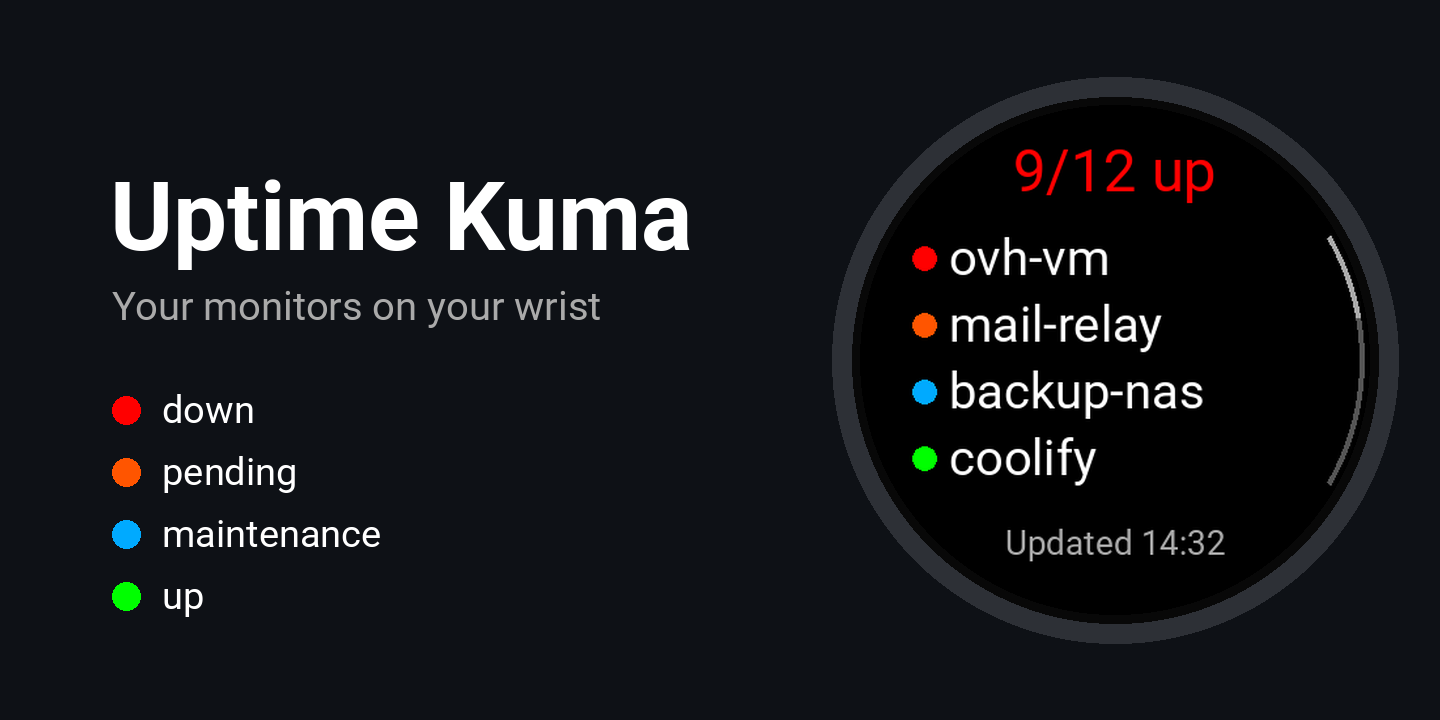
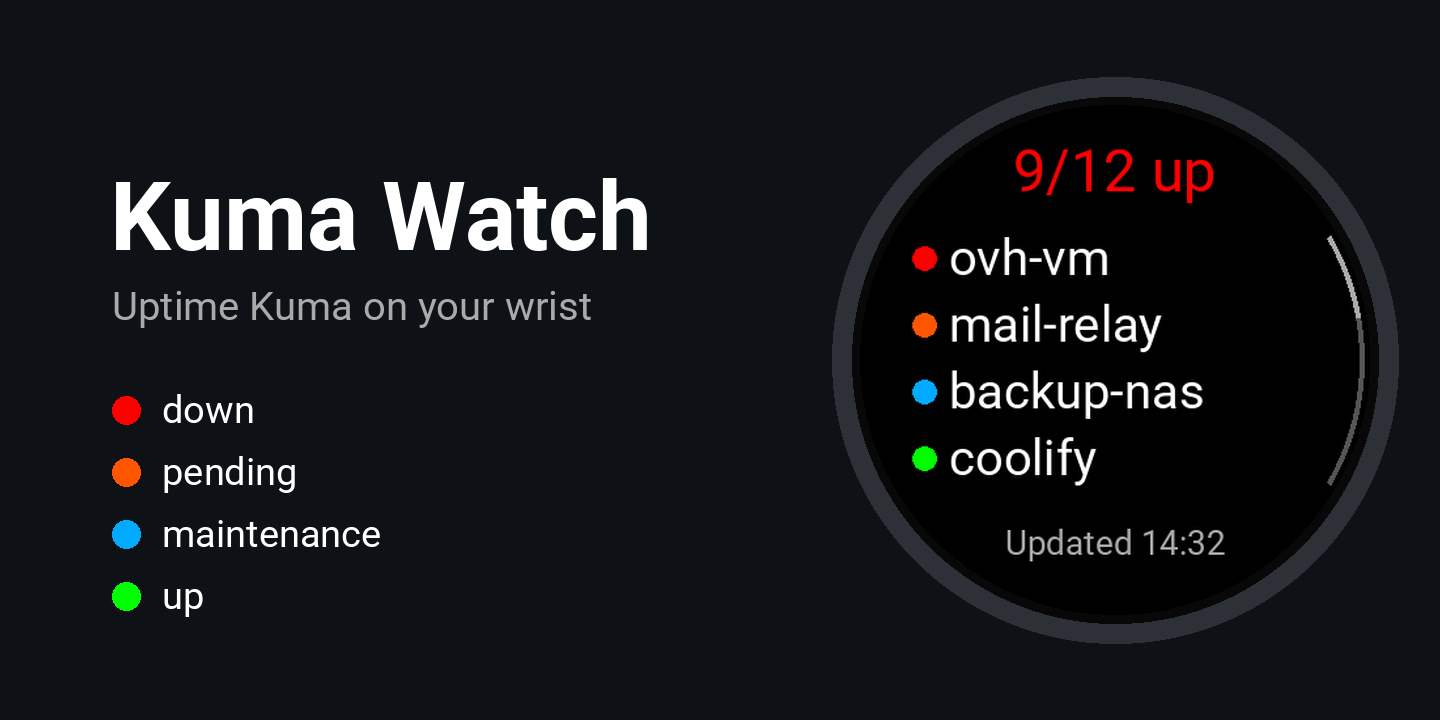
Rename the app to Kuma Watch and add the MIT license

Changed region(s): [[0.0625, 0.2444, 0.5, 0.3667], [0.0625, 0.3972, 0.4375, 0.4583]]

diff --git a/garmin/store/render.py b/garmin/store/render.py
@@ -12,9 +12,9 @@ OUT = sys.argv[1]
 
 TEXT = {
     "en": {"updated": "Updated", "all_up": "All up", "down": "down", "no_phone": "No phone\nconnection",
-           "retry": "Tap to retry", "tagline": "Your monitors on your wrist"},
+           "retry": "Tap to retry", "tagline": "Uptime Kuma on your wrist"},
     "fr": {"updated": "MAJ", "all_up": "Tout est up", "down": "down", "no_phone": "Pas de connexion\ntéléphone",
-           "retry": "Toucher pour réessayer", "tagline": "L'état de vos monitors au poignet"},
+           "retry": "Toucher pour réessayer", "tagline": "Uptime Kuma au poignet"},
 }
 W = H = 390
 REG = "/usr/share/fonts/TTF/Roboto-Regular.ttf"
@@ -164,7 +164,7 @@ def render(lang, out):
     cd.ellipse([wx - 8, wy - 8, wx + ws + 8, wy + ws + 8], fill=(8, 8, 8))
     watch = round_mask(shots["screenshot-1-list.png"].resize((ws, ws), Image.LANCZOS))
     cover.paste(watch, (wx, wy), watch)
-    cd.text((110, 250), "Uptime Kuma", font=ImageFont.truetype(BOLD, 96), fill=WHITE, anchor="ls")
+    cd.text((110, 250), "Kuma Watch", font=ImageFont.truetype(BOLD, 96), fill=WHITE, anchor="ls")
     cd.text((112, 320), t["tagline"], font=ImageFont.truetype(REG, 40), fill=LT, anchor="ls")
     for i, (label, color) in enumerate([("down", RED), ("pending", ORANGE), ("maintenance", BLUE), ("up", GREEN)]):
         y = 410 + i * 62

diff --git a/README.md b/README.md
@@ -1,6 +1,8 @@
-# Uptime Kuma for Garmin vivoactive 6
+# Kuma Watch: Uptime Kuma for Garmin vivoactive 6
 
-Check the up/down state of your Uptime Kuma monitors from your watch.
+Check the up/down state of your [Uptime Kuma](https://github.com/louislam/uptime-kuma) monitors from your watch.
+
+Unofficial project, not affiliated with Uptime Kuma. MIT licensed.
 
 ```
 proxy/    Python micro-service: Uptime Kuma /metrics → compact JSON
@@ -198,7 +200,7 @@ Keep this key safe: every update of an installed app must be signed with the sam
 ### Configuration
 
 The URL and token are **not** part of the build (`properties.xml` leaves them empty): after installing from
-the Connect IQ Store, set them in the **Connect IQ** app on the phone → *My Device* → *My Apps* → Uptime Kuma →
+the Connect IQ Store, set them in the **Connect IQ** app on the phone → *My Device* → *My Apps* → Kuma Watch →
 *Settings*. While they're empty, the app shows "URL/token not configured".
 
 A sideloaded app (installed over USB) has no access to these settings. For local testing, temporarily fill in
